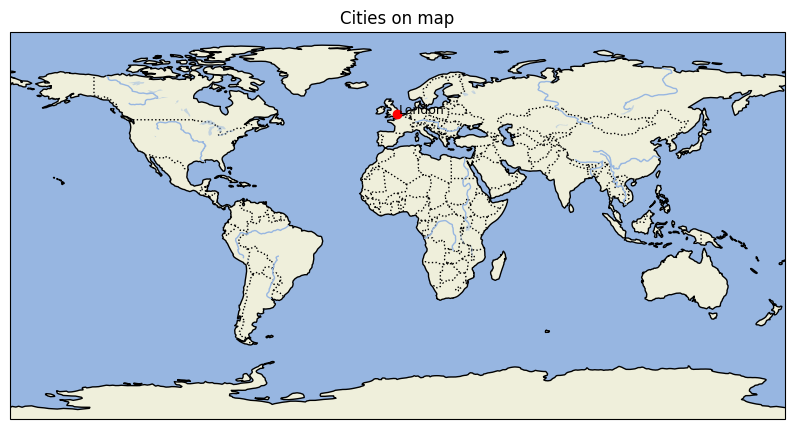
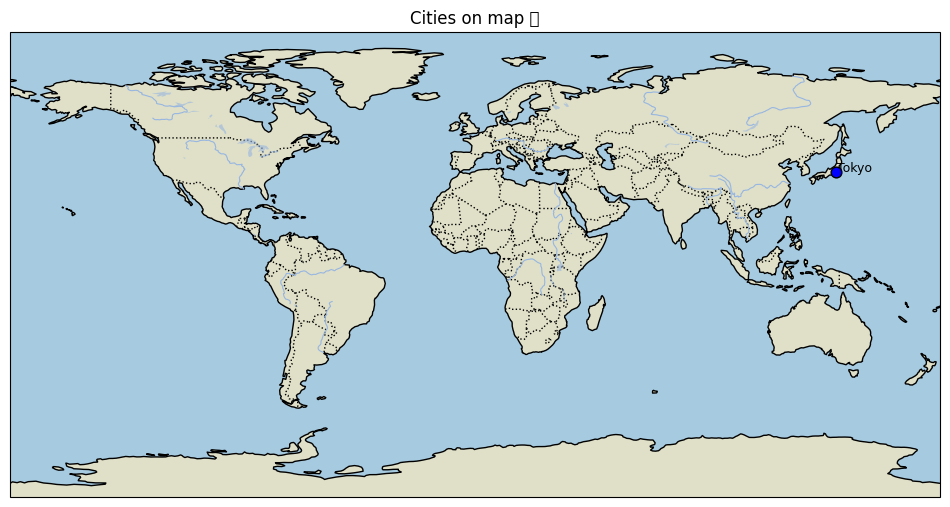
Update

diff --git a/logic.py b/logic.py
@@ -5,91 +5,107 @@ matplotlib.use('Agg')
 import matplotlib.pyplot as plt
 import cartopy.crs as ccrs
 import cartopy.feature as cfeature
-
+from cartopy.feature import NaturalEarthFeature
 
 class DB_Map():
     def __init__(self, database):
         self.database = database
-    
+
     def create_user_table(self):
         conn = sqlite3.connect(self.database)
         with conn:
-            conn.execute('''CREATE TABLE IF NOT EXISTS users_cities (
-                                user_id INTEGER,
-                                city_id TEXT,
-                                FOREIGN KEY(city_id) REFERENCES cities(id)
-                            )''')
+            conn.execute('''
+                CREATE TABLE IF NOT EXISTS users_cities (
+                    user_id INTEGER,
+                    city_id TEXT,
+                    FOREIGN KEY(city_id) REFERENCES cities(id)
+                )
+            ''')
+            conn.execute('''
+                CREATE TABLE IF NOT EXISTS users_settings (
+                    user_id INTEGER PRIMARY KEY,
+                    marker_color TEXT DEFAULT 'red'
+                )
+            ''')
             conn.commit()
 
-    def add_city(self, user_id, city_name):
-        conn = sqlite3.connect(self.database)
-        with conn:
-            cursor = conn.cursor()
-            cursor.execute("SELECT id FROM cities WHERE city=?", (city_name,))
-            city_data = cursor.fetchone()
-            if city_data:
-                city_id = city_data[0]
-                conn.execute(
-                    'INSERT INTO users_cities VALUES (?, ?)',
-                    (user_id, city_id)
-                )
-                conn.commit()
-                return True
-            return False
+    # ---------- НАСТРОЙКИ ----------
 
-    def select_cities(self, user_id):
+    def set_marker_color(self, user_id, color):
+        conn = sqlite3.connect(self.database)
+        with conn:
+            conn.execute('''
+                INSERT INTO users_settings (user_id, marker_color)
+                VALUES (?, ?)
+                ON CONFLICT(user_id)
+                DO UPDATE SET marker_color=excluded.marker_color
+            ''', (user_id, color))
+            conn.commit()
+
+    def get_marker_color(self, user_id):
         conn = sqlite3.connect(self.database)
         with conn:
             cursor = conn.cursor()
-            cursor.execute('''
-                SELECT cities.city 
-                FROM users_cities  
-                JOIN cities ON users_cities.city_id = cities.id
-                WHERE users_cities.user_id = ?
-            ''', (user_id,))
-            return [row[0] for row in cursor.fetchall()]
+            cursor.execute(
+                "SELECT marker_color FROM users_settings WHERE user_id=?",
+                (user_id,)
+            )
+            res = cursor.fetchone()
+            return res[0] if res else 'red'
+
+    # ---------- ГОРОДА ----------
 
     def get_coordinates(self, city_name):
         conn = sqlite3.connect(self.database)
         with conn:
             cursor = conn.cursor()
-            cursor.execute('''
-                SELECT lat, lng
-                FROM cities  
-                WHERE city = ?
-            ''', (city_name,))
+            cursor.execute(
+                "SELECT lat, lng FROM cities WHERE city=?",
+                (city_name,)
+            )
             return cursor.fetchone()
 
-    def create_graph(self, path, cities):
-        """
-        cities: list[str] — список городов
-        path: str — путь сохранения картинки
-        """
-        fig = plt.figure(figsize=(10, 6))
+    # ---------- КАРТА ----------
+
+    def create_graph(self, path, cities, marker_color='red'):
+        fig = plt.figure(figsize=(12, 7))
         ax = plt.axes(projection=ccrs.PlateCarree())
 
-        ax.add_feature(cfeature.LAND)
-        ax.add_feature(cfeature.OCEAN)
-        ax.add_feature(cfeature.COASTLINE)
-        ax.add_feature(cfeature.BORDERS, linestyle=':')
-        ax.add_feature(cfeature.LAKES, alpha=0.5)
-        ax.add_feature(cfeature.RIVERS)
+        # 🌍 Заливка океанов и континентов
+        ax.add_feature(cfeature.OCEAN, facecolor='#A6CAE0')
+        ax.add_feature(cfeature.LAND, facecolor='#E0E0C8')
 
+        # 🗺 Географические объекты
+        ax.add_feature(cfeature.COASTLINE, linewidth=1)
+        ax.add_feature(cfeature.BORDERS, linestyle=':')
+        ax.add_feature(cfeature.LAKES, alpha=0.6)
+        ax.add_feature(cfeature.RIVERS, linewidth=0.8)
+
+        # 📍 Города
         for city in cities:
             coords = self.get_coordinates(city)
             if coords:
                 lat, lng = coords
-                ax.plot(lng, lat, 'ro', markersize=6, transform=ccrs.PlateCarree())
-                ax.text(
-                    lng + 0.5,
-                    lat + 0.5,
-                    city,
+
+                ax.scatter(
+                    lng, lat,
+                    color=marker_color,
+                    s=60,
+                    edgecolors='black',
                     transform=ccrs.PlateCarree(),
-                    fontsize=9
+                    zorder=5
+                )
+
+                ax.text(
+                    lng + 0.3,
+                    lat + 0.3,
+                    city,
+                    fontsize=9,
+                    transform=ccrs.PlateCarree()
                 )
 
         ax.set_global()
-        ax.set_title("Cities on map")
+        ax.set_title("Cities on map 🌍")
 
         plt.savefig(path, bbox_inches='tight')
         plt.close()

diff --git a/bot.py b/bot.py
@@ -4,7 +4,6 @@ from logic import *
 
 bot = telebot.TeleBot(TOKEN)
 
-
 @bot.message_handler(commands=['start'])
 def handle_start(message):
     bot.send_message(
@@ -39,7 +38,9 @@ def handle_show_city(message):
         return
 
     path = f"map_{message.chat.id}.png"
-    manager.create_graph(path, [city_name])
+
+    color = manager.get_marker_color(message.chat.id)
+    manager.create_graph(path, [city_name], marker_color=color)
 
     with open(path, 'rb') as img:
         bot.send_photo(message.chat.id, img)
@@ -77,6 +78,40 @@ def handle_show_visited_cities(message):
     with open(path, 'rb') as img:
         bot.send_photo(message.chat.id, img)
 
+
+@bot.message_handler(commands=['help'])
+def handle_help(message):
+    bot.send_message(
+        message.chat.id,
+        "/show_city <city> — показать город\n"
+        "/remember_city <city> — сохранить город\n"
+        "/show_my_cities — показать все города\n"
+        "/set_color <color> — цвет маркеров (red, blue, green, yellow, purple)"
+    )
+
+
+@bot.message_handler(commands=['set_color'])
+def handle_set_color(message):
+    parts = message.text.split()
+    if len(parts) < 2:
+        bot.send_message(message.chat.id, "Пример: /set_color blue")
+        return
+
+    color = parts[1].lower()
+    allowed = ['red', 'blue', 'green', 'yellow', 'purple', 'black']
+
+    if color not in allowed:
+        bot.send_message(
+            message.chat.id,
+            f"Недопустимый цвет ❌\nДоступно: {', '.join(allowed)}"
+        )
+        return
+
+    manager.set_marker_color(message.chat.id, color)
+    bot.send_message(
+        message.chat.id,
+        f"Цвет маркеров установлен: {color} 🎨"
+    )
 
 if __name__ == "__main__":
     manager = DB_Map(DATABASE)
